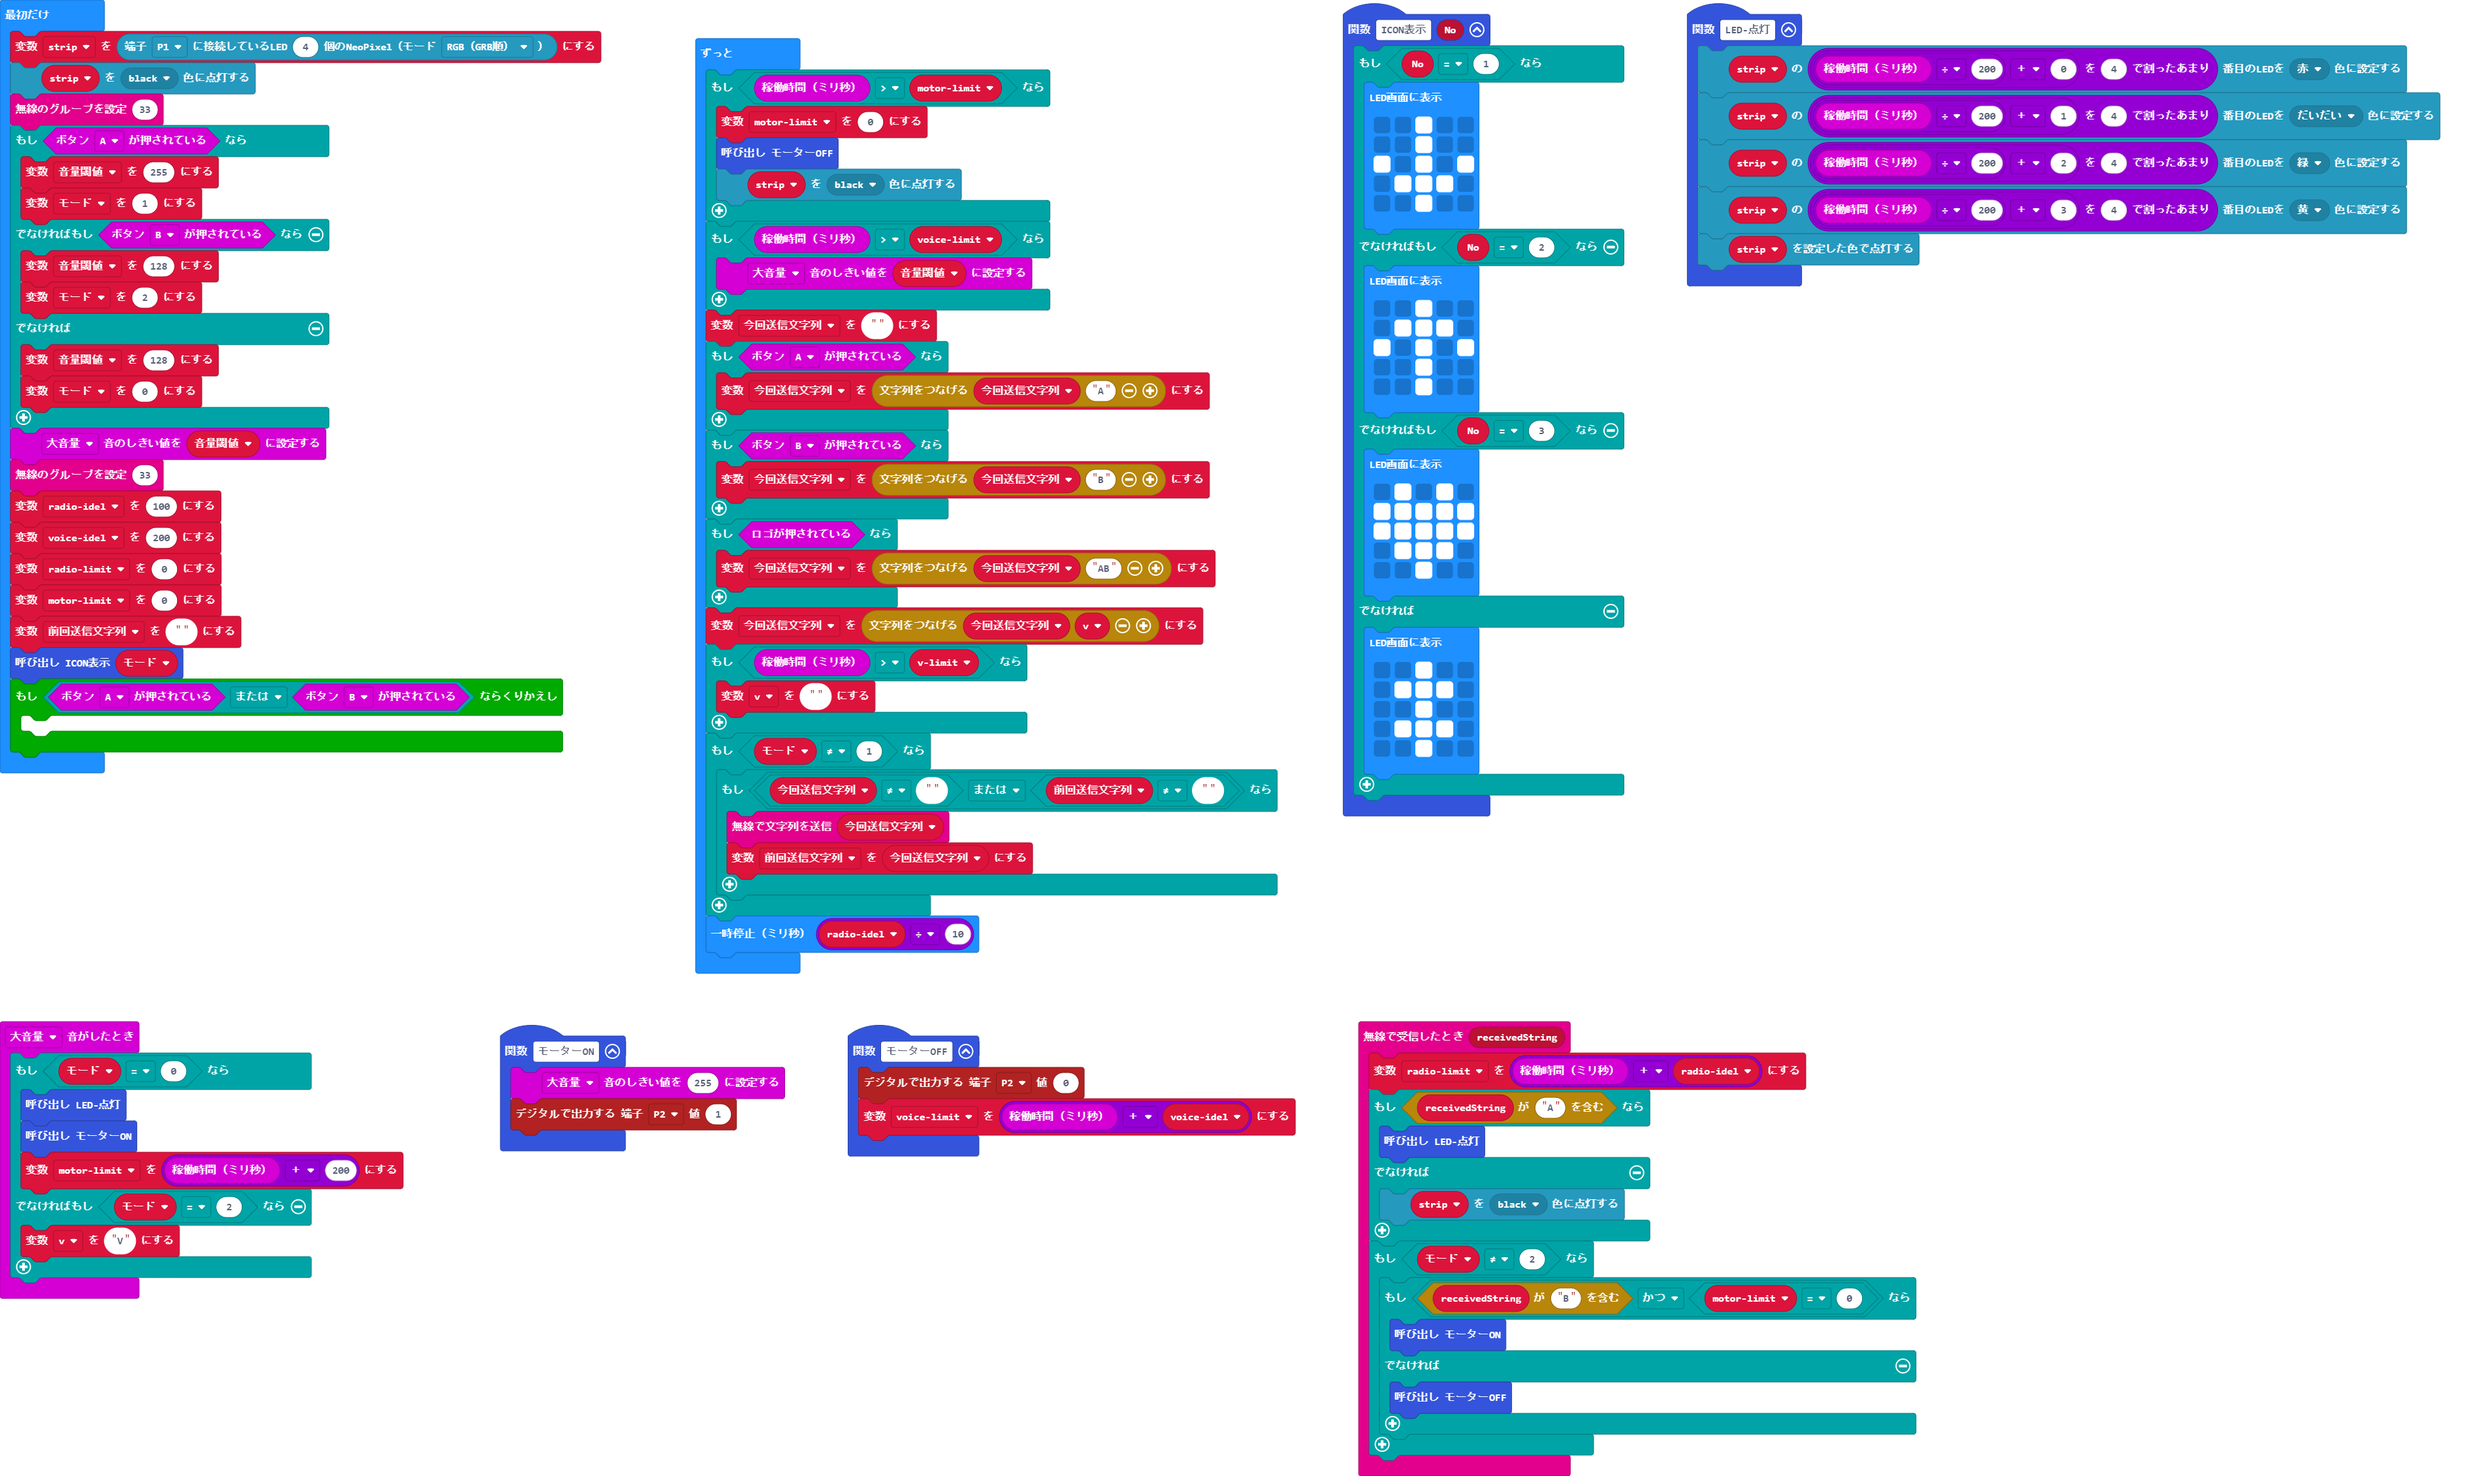
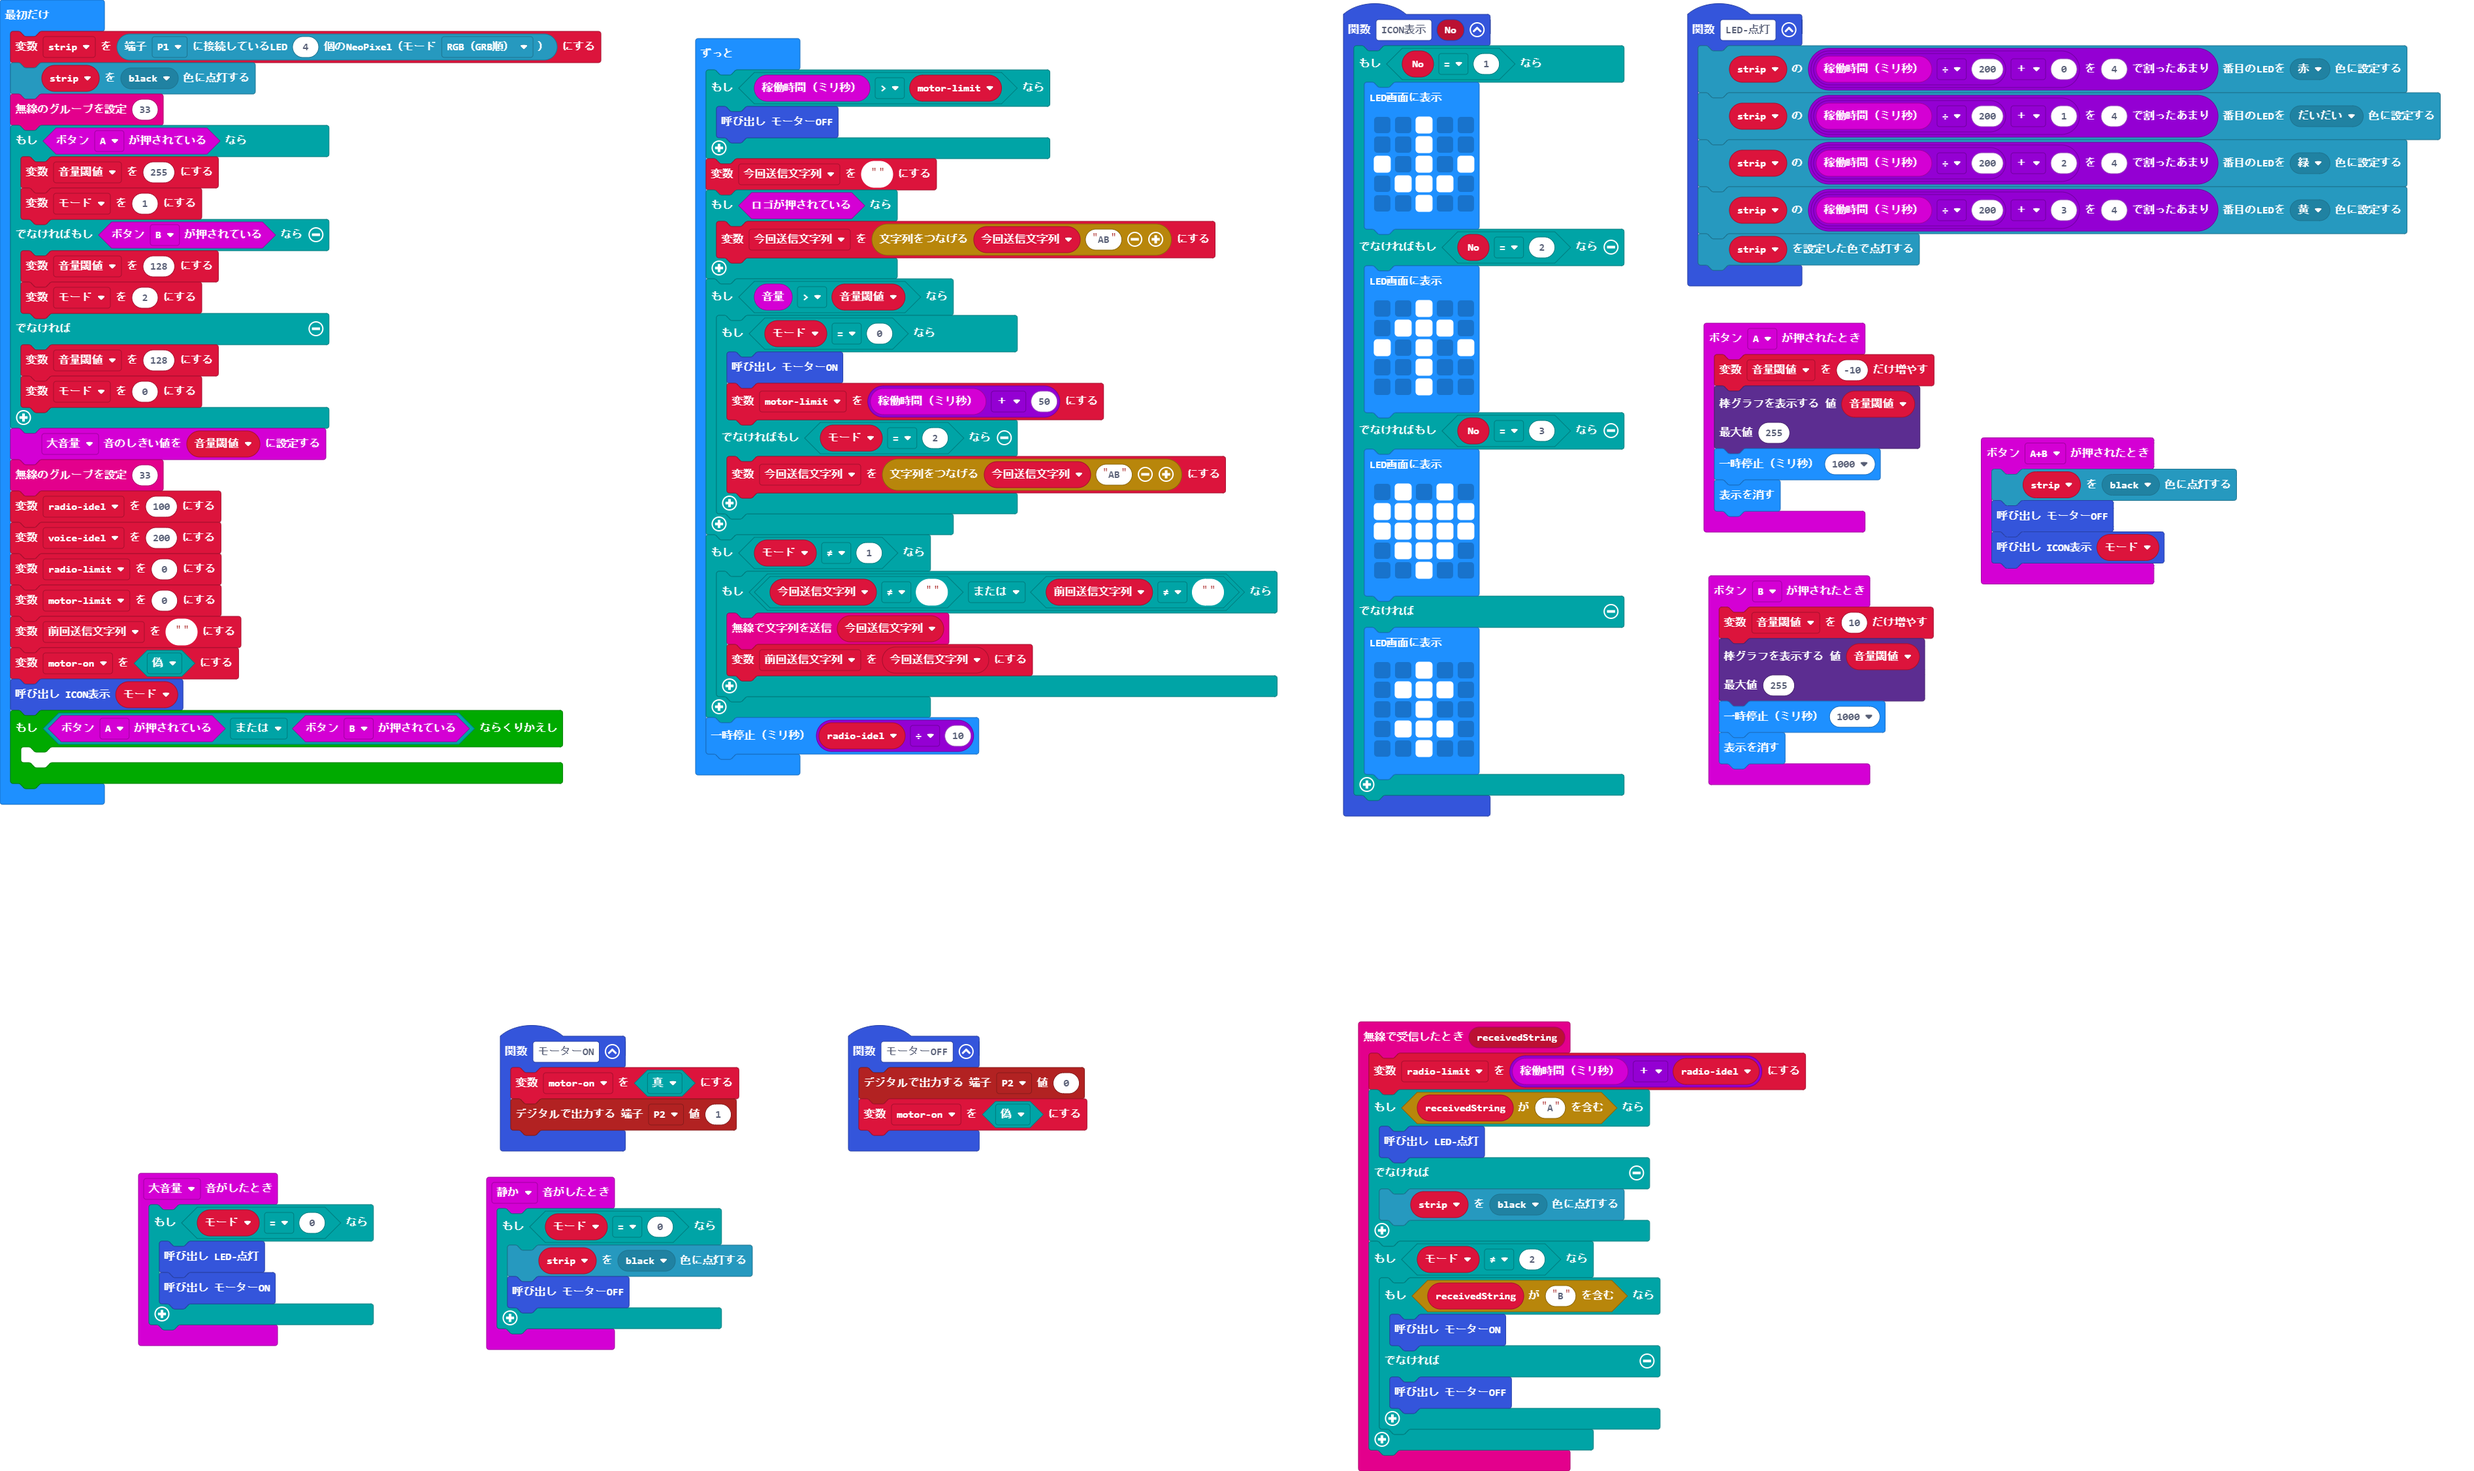
更新 main.blocks, main.ts

diff --git a/main.ts b/main.ts
@@ -33,18 +33,29 @@ function ICON表示 (No: number) {
             `)
     }
 }
+input.onButtonPressed(Button.A, function () {
+    音量閾値 += -10
+    led.plotBarGraph(
+    音量閾値,
+    255
+    )
+    basic.pause(1000)
+    basic.clearScreen()
+})
 function モーターON () {
-    input.setSoundThreshold(SoundThreshold.Loud, 255)
+    motoron = true
     pins.digitalWritePin(DigitalPin.P2, 1)
 }
 input.onSound(DetectedSound.Loud, function () {
     if (モード == 0) {
         LED点灯()
         モーターON()
-        motorlimit = input.runningTime() + 200
-    } else if (モード == 2) {
-        v = "V"
     }
+})
+input.onButtonPressed(Button.AB, function () {
+    strip.showColor(neopixel.colors(NeoPixelColors.Black))
+    モーターOFF()
+    ICON表示(モード)
 })
 radio.onReceivedString(function (receivedString) {
     radiolimit = input.runningTime() + radioidel
@@ -54,11 +65,26 @@ radio.onReceivedString(function (receivedString) {
         strip.showColor(neopixel.colors(NeoPixelColors.Black))
     }
     if (モード != 2) {
-        if (receivedString.includes("B") && motorlimit == 0) {
+        if (receivedString.includes("B")) {
             モーターON()
         } else {
             モーターOFF()
         }
+    }
+})
+input.onButtonPressed(Button.B, function () {
+    音量閾値 += 10
+    led.plotBarGraph(
+    音量閾値,
+    255
+    )
+    basic.pause(1000)
+    basic.clearScreen()
+})
+input.onSound(DetectedSound.Quiet, function () {
+    if (モード == 0) {
+        strip.showColor(neopixel.colors(NeoPixelColors.Black))
+        モーターOFF()
     }
 })
 function LED点灯 () {
@@ -70,14 +96,11 @@ function LED点灯 () {
 }
 function モーターOFF () {
     pins.digitalWritePin(DigitalPin.P2, 0)
-    voicelimit = input.runningTime() + voiceidel
+    motoron = false
 }
 let 今回送信文字列 = ""
-let voicelimit = 0
-let v = ""
-let motorlimit = 0
+let motoron = false
 let radiolimit = 0
-let voiceidel = 0
 let radioidel = 0
 let モード = 0
 let 音量閾値 = 0
@@ -98,37 +121,30 @@ if (input.buttonIsPressed(Button.A)) {
 input.setSoundThreshold(SoundThreshold.Loud, 音量閾値)
 radio.setGroup(33)
 radioidel = 100
-voiceidel = 200
+let voiceidel = 200
 radiolimit = 0
-motorlimit = 0
+let motorlimit = 0
 let 前回送信文字列 = ""
+motoron = false
 ICON表示(モード)
 while (input.buttonIsPressed(Button.A) || input.buttonIsPressed(Button.B)) {
 	
 }
 basic.forever(function () {
-    let vlimit = 0
     if (input.runningTime() > motorlimit) {
-        motorlimit = 0
         モーターOFF()
-        strip.showColor(neopixel.colors(NeoPixelColors.Black))
-    }
-    if (input.runningTime() > voicelimit) {
-        input.setSoundThreshold(SoundThreshold.Loud, 音量閾値)
     }
     今回送信文字列 = ""
-    if (input.buttonIsPressed(Button.A)) {
-        今回送信文字列 = "" + 今回送信文字列 + "A"
-    }
-    if (input.buttonIsPressed(Button.B)) {
-        今回送信文字列 = "" + 今回送信文字列 + "B"
-    }
     if (input.logoIsPressed()) {
         今回送信文字列 = "" + 今回送信文字列 + "AB"
     }
-    今回送信文字列 = "" + 今回送信文字列 + v
-    if (input.runningTime() > vlimit) {
-        v = ""
+    if (input.soundLevel() > 音量閾値) {
+        if (モード == 0) {
+            モーターON()
+            motorlimit = input.runningTime() + 50
+        } else if (モード == 2) {
+            今回送信文字列 = "" + 今回送信文字列 + "AB"
+        }
     }
     if (モード != 1) {
         if (今回送信文字列 != "" || 前回送信文字列 != "") {
